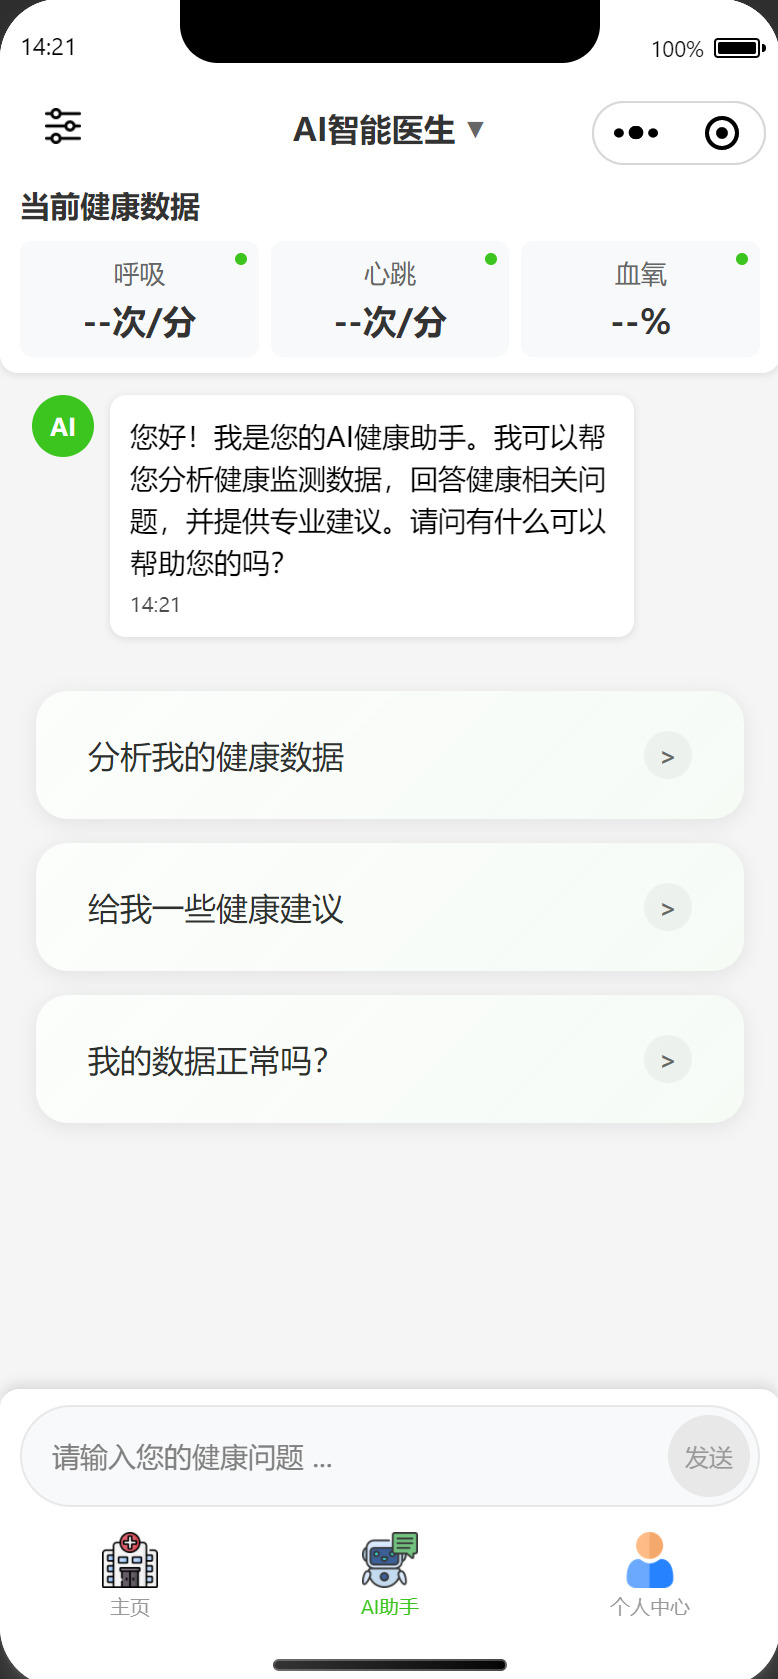
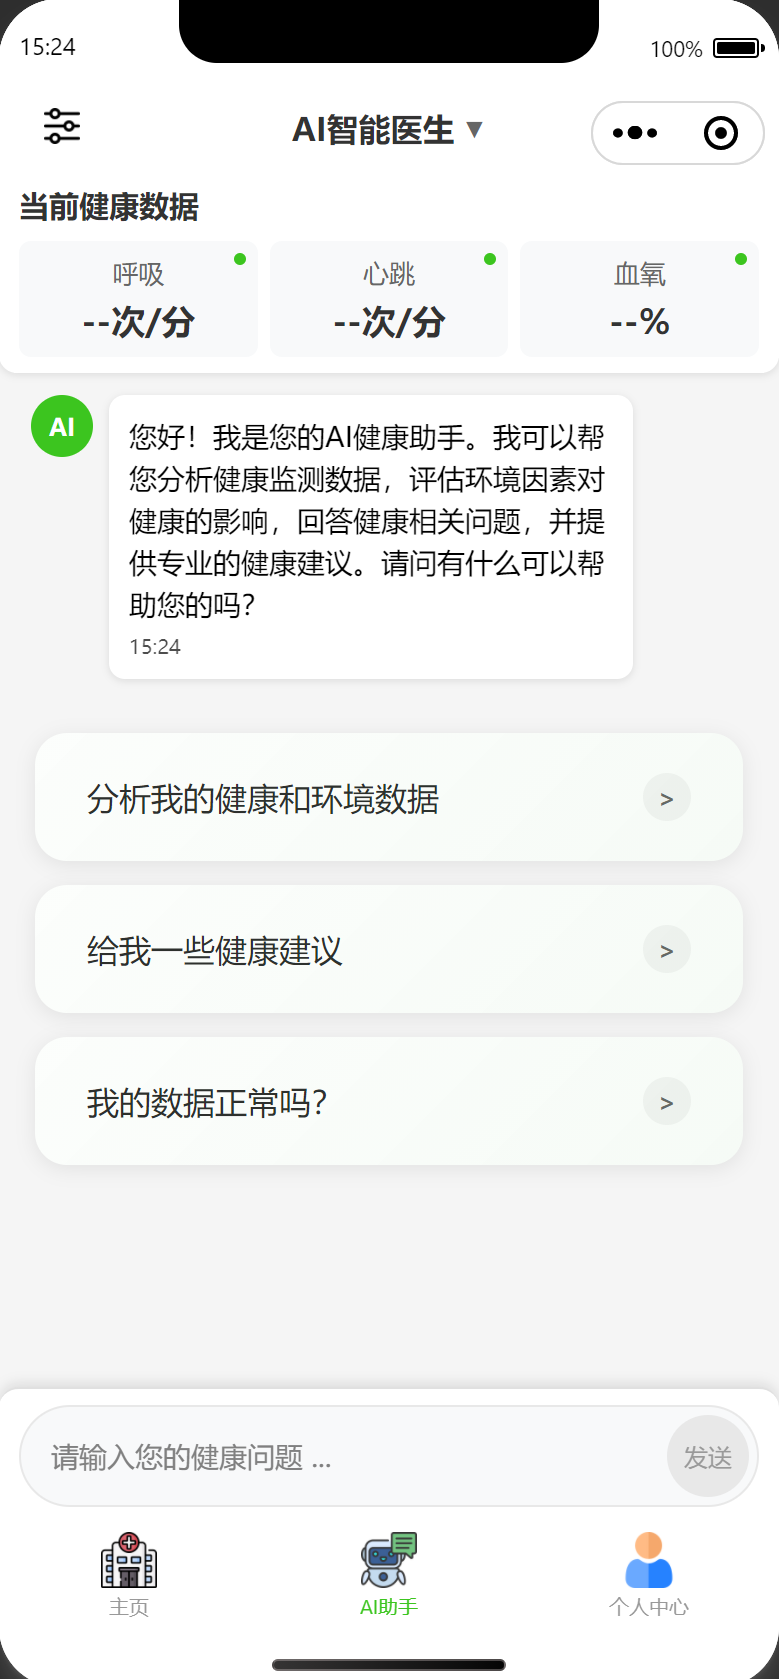
feat(ai-assistant): add environmental data analysis and prompt for AI assistant
- 在原有的分析人体健康数据的基础上，添加分析环境数据的功能
- 为AI智能医生添加系统提示词，优化用户体验

diff --git a/utils/ai.js b/utils/ai.js
@@ -33,6 +33,24 @@ class AIAssistant {
     return conversationId;
   }
 
+  // 系统提示词
+  buildSystemPrompt() {
+    return `你是一位专业的AI智能医生，具备医学常识、诊断能力和数据分析能力。用户会提供以下信息：
+
+- 人体健康数据（如呼吸，心跳，血氧等）
+- 环境数据（如光照，气压，温度，湿度等）
+- 用户主诉（如不适症状、饮食作息、精神状态等）
+
+你的任务是根据以上信息，判断可能的健康风险、给出初步分析和建议。输出格式如下：
+
+1. **初步诊断：** 对当前健康状态的简要评估
+2. **关联分析：** 人体数据和环境因素之间的关系分析
+3. **健康建议：** 生活方式调整建议，或是否需要就医
+4. **风险预警：** 如有潜在健康问题，请突出提示
+
+请严格按照以上格式回复，确保专业性和准确性。`;
+  }
+
   // 发送消息到AI（修复版）
   async sendMessageStream(message, monitorData = null, onProgress = null) {
     const apiKey = this.getApiKey();
@@ -40,22 +58,24 @@ class AIAssistant {
       throw new Error("请先配置Coze API Key");
     }
 
-    // 构建完整的用户消息，包含监测数据
-    let fullMessage = message;
+    // 构建完整的用户消息，包含系统提示词和监测数据
+    let fullMessage = this.buildSystemPrompt() + "\n\n" + message;
 
     // 如果有监测数据，添加到消息中
     if (monitorData) {
       const monitorInfo = `\n\n当前患者监测数据：
-- 体温: ${monitorData.temperature?.value || "--"} ${
-        monitorData.temperature?.unit || ""
-      }
-- 湿度: ${monitorData.humidity?.value || "--"} ${
-        monitorData.humidity?.unit || ""
-      }
-- 呼吸频率: ${monitorData.breathing?.value || "--"} ${
-        monitorData.breathing?.unit || ""
-      }
-- 血氧饱和度: ${monitorData.spo2?.value || "--"} ${monitorData.spo2?.unit || ""}
+【人体健康数据】
+- 呼吸频率: ${monitorData.breathing?.value || "--"}次/分 (状态: ${monitorData.breathing?.status || "未知"})
+- 心率: ${monitorData.heartRate?.value || "--"}次/分 (状态: ${monitorData.heartRate?.status || "未知"})
+- 血氧饱和度: ${monitorData.bloodOxygen?.value || "--"}% (状态: ${monitorData.bloodOxygen?.status || "未知"})
+
+【环境监测数据】
+- 环境温度: ${monitorData.temperature?.value || "--"}°C (状态: ${monitorData.temperature?.status || "未知"})
+- 环境湿度: ${monitorData.humidity?.value || "--"}% (状态: ${monitorData.humidity?.status || "未知"})
+- 光照强度: ${monitorData.light?.value || "--"}lux (状态: ${monitorData.light?.status || "未知"})
+- 气压: ${monitorData.pressure?.value || "--"}hPa (状态: ${monitorData.pressure?.status || "未知"})
+
+【设备状态】
 - LED状态: ${monitorData.led?.status || "--"}
 - 蜂鸣器状态: ${monitorData.buzzer?.status || "--"}`;
 
@@ -222,7 +242,7 @@ class AIAssistant {
 
   // 分析监测数据
   async analyzeMonitorData(monitorData) {
-    const message = `请分析我当前的健康监测数据，给出专业的健康评估和建议。`;
+    const message = `请分析我当前的健康监测数据和环境数据，评估环境因素对我健康的影响，给出专业的健康评估和环境调节建议。`;
     return await this.sendMessage(message, monitorData);
   }
 

diff --git a/pages/ai-doctor/ai-doctor.js b/pages/ai-doctor/ai-doctor.js
@@ -85,7 +85,7 @@ Page({
     const welcomeMsg = {
       role: "assistant",
       content:
-        "您好！我是您的AI健康助手。我可以帮您分析健康监测数据，回答健康相关问题，并提供专业建议。请问有什么可以帮助您的吗？",
+        "您好！我是您的AI智能医生。我可以帮您分析健康监测数据和环境因素，提供专业的医学建议，请问有什么可以帮助您的吗？",
       time: this.getCurrentTime(),
     };
 
@@ -239,12 +239,12 @@ Page({
     // 根据预制消息设置对应的实际问题
     let actualMessage = "";
     if (message.includes("分析我的健康数据")) {
-      actualMessage = "请分析我当前的健康监测数据，给出专业的健康评估和建议。";
+      actualMessage = "请分析我当前的健康监测数据和环境数据，评估环境因素对我健康的影响，给出专业的健康评估和环境调节建议。";
     } else if (message.includes("给我一些健康建议")) {
-      actualMessage = "根据我的监测数据，请给我一些日常健康建议和注意事项。";
+      actualMessage = "根据我的健康监测数据和环境数据，请给我一些日常健康建议、环境调节建议和注意事项。";
     } else if (message.includes("我的数据正常吗")) {
       actualMessage =
-        "我的各项健康监测数据是否在正常范围内？有什么需要注意的吗？";
+        "我的各项健康监测数据和环境数据是否在正常范围内？环境对我的健康有什么影响？有什么需要注意的吗？";
     } else {
       actualMessage = message;
     }
@@ -348,7 +348,7 @@ Page({
     this.scrollToBottom();
 
     const analysisPrompt =
-      "请分析我当前的健康监测数据，给出专业的健康评估和建议。";
+      "请分析我当前的健康监测数据和环境数据，评估环境因素对我健康的影响，给出专业的健康评估和环境调节建议。";
 
     aiAssistant
       .sendMessageStream(
@@ -380,7 +380,7 @@ Page({
 
   // 健康建议
   healthAdvice() {
-    const question = "根据我的健康监测数据，请给我一些日常健康建议。";
+    const question = "根据我的健康监测数据和环境数据，请给我一些日常健康建议、环境调节建议和注意事项。";
 
     const userMessage = {
       role: "user",

diff --git a/README.md b/README.md
@@ -39,21 +39,34 @@
 
 ### 🏠 主页监测界面
 
-实时显示患者的关键生理指标：
+实时显示患者的关键生理指标和环境数据：
 
-- 🌡 **体温监测** - 精确到 0.1°C
-- 💧 **湿度监测** - 环境湿度实时跟踪
+**人体健康指标：**
 - 🫁 **呼吸频率** - 每分钟呼吸次数
+- ❤ **心率监测** - 实时心跳频率
 - 🩸 **血氧饱和度** - SpO2 实时监测
+
+**环境监测数据：**
+- 🌡 **环境温度** - 精确到 0.1°C
+- 💧 **环境湿度** - 实时湿度跟踪
+- ☀ **光照强度** - 环境光照监测
+- 🌪 **气压监测** - 大气压力实时跟踪
+
+**设备控制：**
 - 💡 **设备控制** - LED 灯光和蜂鸣器控制
 
 ### 🤖 AI 智能助手
 
 智能健康分析功能：
 
-- 🤖 **实时对话** - 基于 Coze API 的智能问答
-- 📊 **数据分析** - 自动分析健康数据趋势
-- 💡 **健康建议** - 个性化健康指导
+- 🤖 **专业AI医生** - 基于专业医学提示词的智能诊断
+- 📊 **数据分析** - 自动分析健康数据趋势和环境数据
+- 🌡 **环境分析** - 综合评估环境因素对健康的影响
+- 💡 **结构化建议** - 按照专业格式提供健康指导：
+  - **初步诊断** - 健康状态评估
+  - **关联分析** - 人体数据与环境因素关系
+  - **健康建议** - 生活方式调整建议
+  - **风险预警** - 潜在健康问题提示
 - 🚨 **异常提醒** - 智能识别健康风险
 - 📝 **历史对话管理** - 完整的对话管理功能，复刻界面效果
   - ✏ **编辑模式** - 点击"编辑"按钮进入管理模式，支持批量操作
